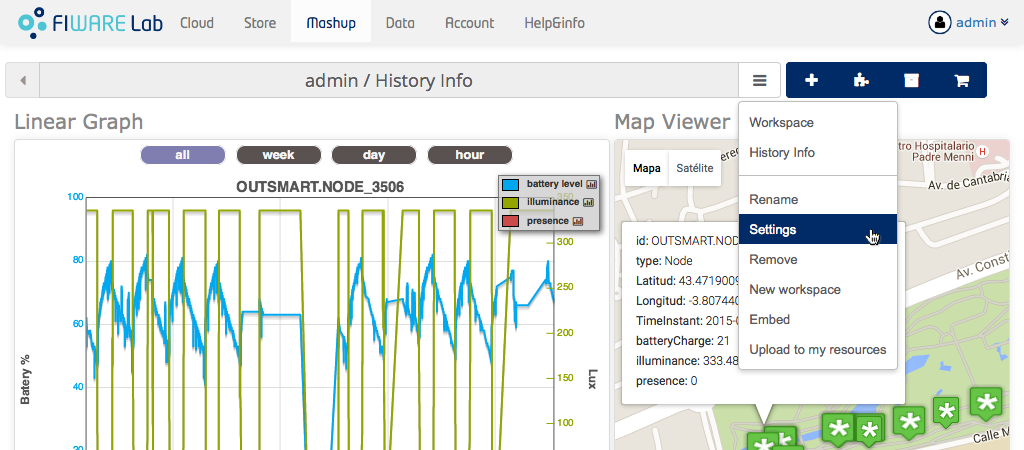
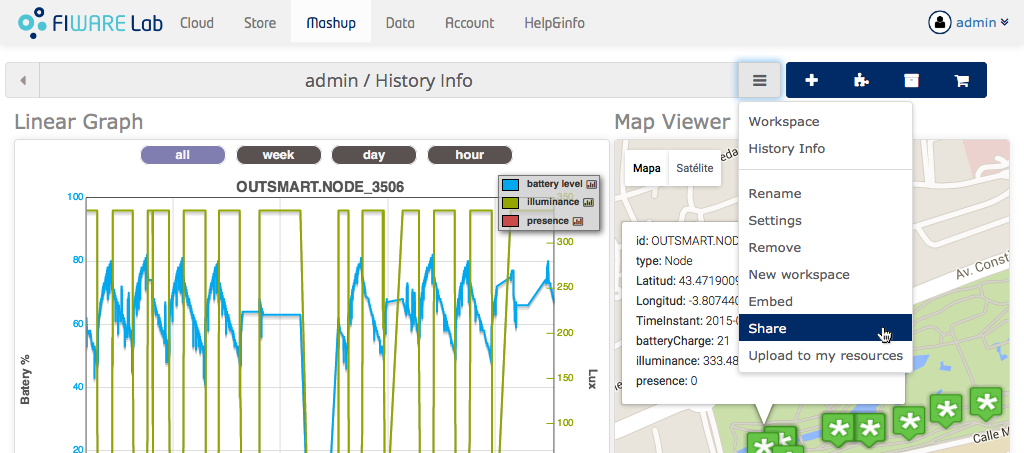
Update documentation

diff --git a/src/wirecloud/platform/static/js/wirecloud/ui/SharingWindowMenu.js b/src/wirecloud/platform/static/js/wirecloud/ui/SharingWindowMenu.js
@@ -33,7 +33,7 @@
     ns.SharingWindowMenu = function SharingWindowMenu(workspace) {
         var builder, i, options, subtitle1, subtitle2, template;
 
-        ns.WindowMenu.call(this, utils.gettext("Sharing settings"));
+        ns.WindowMenu.call(this, utils.gettext("Sharing settings"), 'wc-dashboard-share-dialog');
 
         this.workspace = workspace;
         builder = new se.GUIBuilder();
@@ -133,7 +133,7 @@
 
         builder.parse(template, {
             radiobutton: function () {
-                return new se.RadioButton({id: data.name + '_option', group: this.visibilityOptions, value: data.name});
+                return new se.RadioButton({group: this.visibilityOptions, value: data.name});
             }.bind(this),
             image: function () {
                 var icon = document.createElement('span');

diff --git a/src/wirecloud/guidebuilder/tests.py b/src/wirecloud/guidebuilder/tests.py
@@ -285,9 +285,11 @@ class BasicSeleniumGuideTests(WirecloudSeleniumTestCase):
 
         # Workspace list screenshot
         menu = self.open_menu()
-        imgp = take_capture(self.driver, extra=3)
+        imgp = take_capture(self.driver, extra='workspace_menu')
+        box = create_box(menu.element, 10)
+        box = (box[0], box[1] - 40, box[2], box[3])
         add_pointer(imgp, get_position(menu_widg))  # Add the mouse
-        crop_down(imgp, menu.element)  # Crop down the image
+        crop_image(imgp, *box)
 
         # Capture new workspace
         newworkspace_menu = menu.get_entry('New workspace')
@@ -329,6 +331,8 @@ class BasicSeleniumGuideTests(WirecloudSeleniumTestCase):
             '.window_menu.workspace_preferences')
         imgp = take_capture(self.driver, extra='WorkspaceSettings')
         crop_image(imgp, *create_box(dialog))
+
+    test_creating_new_workspace.tags = ('ui-new-workspace',)
 
     @uses_extra_resources(list_resources)
     def test_browsing_marketplace(self):
@@ -412,8 +416,7 @@ class BasicSeleniumGuideTests(WirecloudSeleniumTestCase):
 
             # Upload dialog
             btn.click()
-            dialog = self.driver.find_element_by_css_selector(
-                '.window_menu.wc-upload-mac-dialog.wc-upload-mac-dialog-empty')
+            dialog = self.driver.find_element_by_css_selector('.wc-upload-mac-dialog')
             imgp = take_capture(self.driver, extra='uploadNew')
             crop_image(imgp, *create_box(dialog))
             dialog.find_element_by_css_selector(
@@ -851,15 +854,14 @@ class BasicSeleniumGuideTests(WirecloudSeleniumTestCase):
 
         # Public workspace!
         popup_menu = self.open_menu()
-        m_menu = popup_menu.get_entry('Settings')
+        m_menu = popup_menu.get_entry('Share')
         ActionChains(self.driver).move_to_element(m_menu).perform()
         imgp = take_capture(self.driver, extra='Public_Workspace_Menu')
         add_pointer(imgp, get_position(m_menu, 0.8, 0.5))
         crop_down(imgp, popup_menu.element, 80)
         m_menu.click()
-        dialog = get_first_displayed(
-            self.driver, '.window_menu.workspace_preferences')
-        public_b = dialog.find_element_by_css_selector('input[name="public"]')
+        dialog = get_first_displayed(self.driver, '.wc-dashboard-share-dialog')
+        public_b = dialog.find_element_by_css_selector('input[value="public"]')
         public_b.click()
         imgp = take_capture(self.driver, extra='Public_Workspace_Settings')
         add_pointer(imgp, get_position(public_b, 0.5, 0.5))

diff --git a/docs/user_guide.md b/docs/user_guide.md
@@ -35,7 +35,7 @@ is named admin/Workspace.
 Near the workspace name there is a button that you can click on to
 expand the workspace dropdown menu:
 
-![create_workspace/3.png](images/user_guide/create_workspace/3.png)
+![Workspace menu](images/user_guide/create_workspace/workspace_menu.png)
 
 Once expanded, the menu shows a list of the already created workspaces
 (see *Workspace*, *My Multimedia Workspace* and *IssueTrouble* in the
@@ -48,11 +48,12 @@ by a list of options:
 -   **New workspace** creates a new workspace
 -   **Embed** shows info about how to embed current workspace in other
     web pages
+-   **Share** shows the sharing configuration of the current workspace
 -   **Upload to my resources** allows you to save the current
     workspace to the local catalogue for later usage
 
-If you want to create a new workspace named "History Info", choose "New
-workspace" in the dropdown menu:
+If you want to create a new workspace named "History Info", choose *New
+workspace* in the dropdown menu:
 
 ![create_workspace/4.png](images/user_guide/create_workspace/4.png)
 
@@ -639,12 +640,12 @@ Sharing your mashups
 Workspaces can be made public by means of modifying their settings as
 Follows:
 
-1.  Click on the workspace menu button and click *Settings*:
-    ![wiring/Public_Workspace_Menu.png](images/user_guide/wiring/Public_Workspace_Menu.png)
+1.  Click on the workspace menu button and click *Share*:
+    ![Share menu option](images/user_guide/wiring/Public_Workspace_Menu.png)
 
-1.  You will be presented with a dialog for editing workspace's
-    settings:
-    ![wiring/Public_Workspace_Settings.png](images/user_guide/wiring/Public_Workspace_Settings.png)
+2.  You will be presented with a dialog for editing the sharing configuration of
+    the workspace:
+    ![Sharing settings dialog](images/user_guide/wiring/Public_Workspace_Settings.png)
 
 After making a workspace public, you will be able to share the workspace
 URL with other users.
